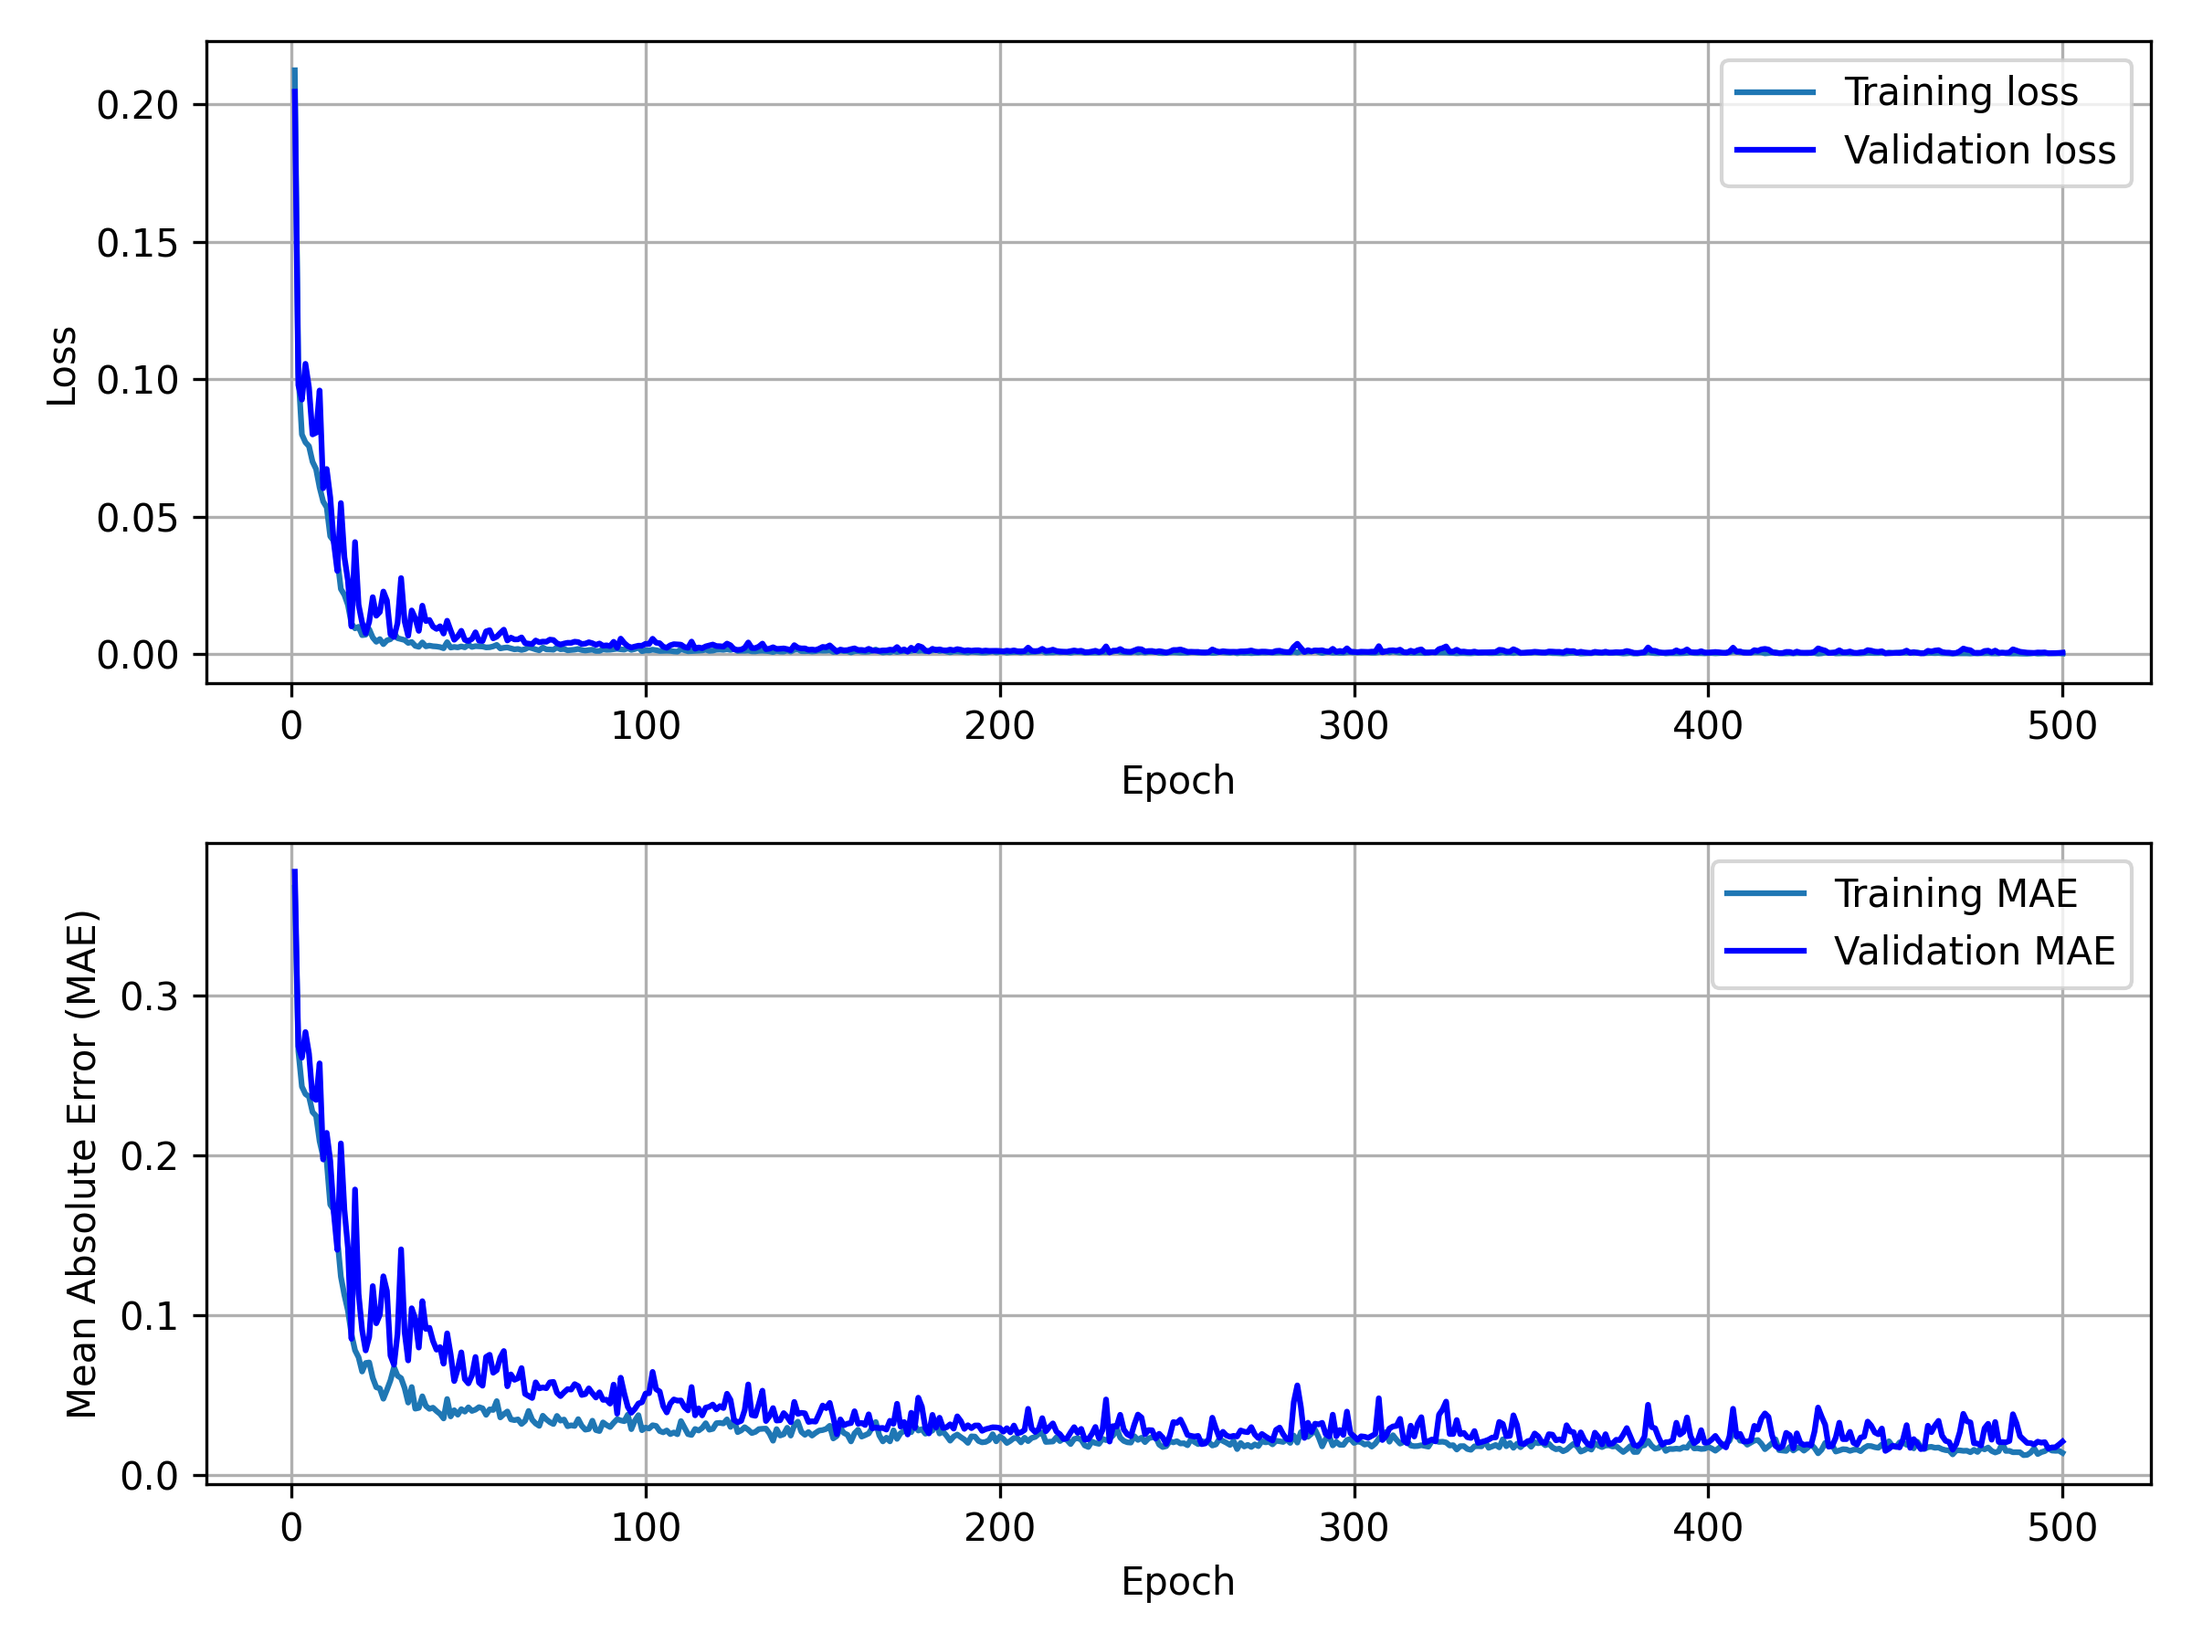
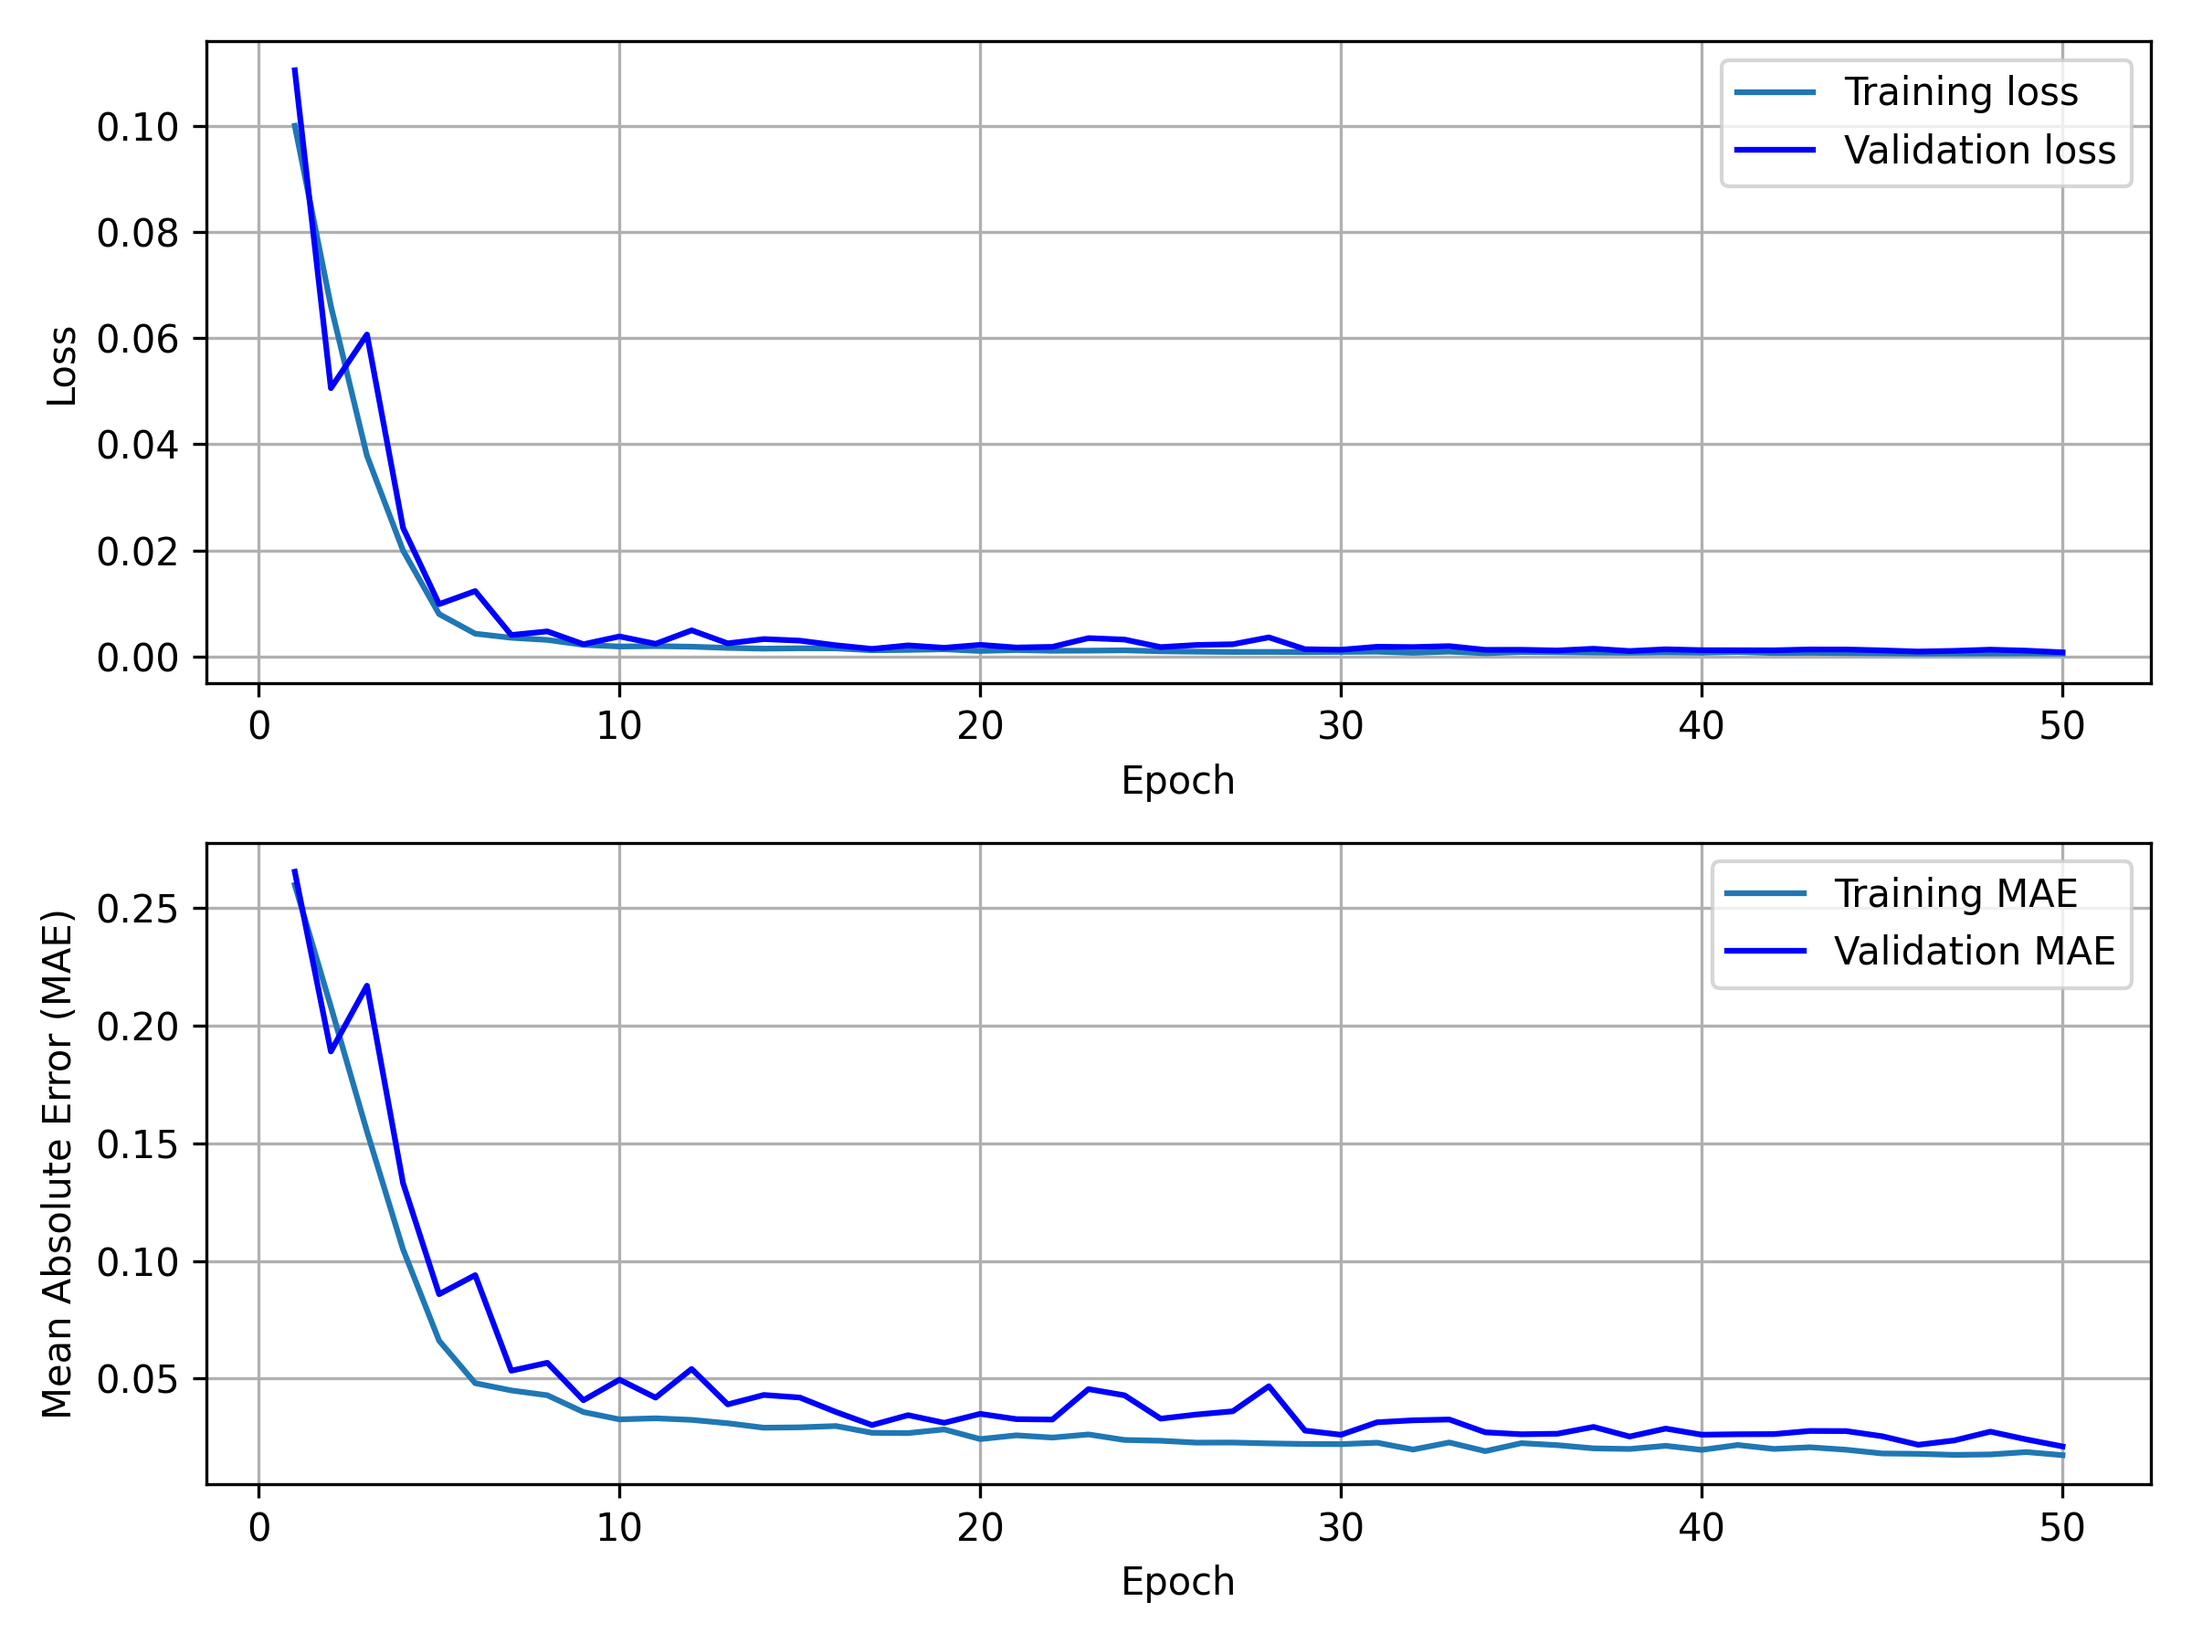
updated regressor

diff --git a/gauge-level-regression.py b/gauge-level-regression.py
@@ -84,7 +84,7 @@ model.compile(optimizer=tf.keras.optimizers.Adam(learning_rate=0.001), loss='mea
 model.summary()
 
 
-history = model.fit(train_generator, epochs=500, validation_data=test_generator)
+history = model.fit(train_generator, epochs=50, validation_data=test_generator)
 
 # Evaluate the model
 test_loss, test_mae = model.evaluate(X_test, y_test)
